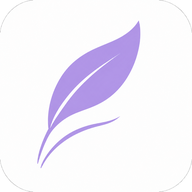
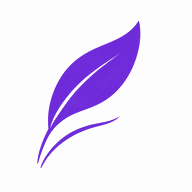
feat: refine PWA branding and application splash assets
- update Apple touch icon and browser favicon assets for consistent Notare
  branding across supported platforms
- update standard PWA icons for 192px and 512px installation requirements
- update maskable PWA icons to improve adaptive icon rendering on supported
  devices and operating systems
- refresh light and dark application logo assets used throughout the PWA
- add the dedicated logo-mark asset for compact branding contexts
- refine AppSplash styling and presentation to align the startup experience
  with the updated application branding
- update AppSplash implementation to use the revised visual assets and
  maintain consistent branding during application initialization
- keep PWA branding assets synchronized across browser, installed-app, and
  splash-screen experiences#

diff --git a/src/pwa/components/AppSplash.tsx b/src/pwa/components/AppSplash.tsx
@@ -6,8 +6,11 @@ interface AppSplashProps {
 }
 
 /**
- * Step 10b. Deliberately no logo here — see useBootPhase.ts's own note
- * on why. Just the tagline, dots, and footer.
+ * Step 12. logo-mark.png (generated alongside the other brand assets —
+ * see the recolor script) is a true transparent cutout of just the
+ * leaf, no card/background baked in, unlike Logo.tsx's own asset —
+ * that's the whole reason this doesn't reuse <Logo>. One flat colour
+ * reads fine on either theme's --color-bg, so no light/dark swap here.
  */
 export function AppSplash({ stage }: AppSplashProps) {
   return (
@@ -18,6 +21,7 @@ export function AppSplash({ stage }: AppSplashProps) {
       role="status"
       aria-live="polite"
     >
+      <img className="app-splash__logo" src="/logo-mark.png" alt="" width={512} height={512} />
       <p className="app-splash__tagline">Write Anywhere. Sync Everywhere.</p>
       <span className="app-splash__dots" aria-hidden="true">
         <span className="app-splash__dot" />

diff --git a/src/pwa/components/AppSplash.css b/src/pwa/components/AppSplash.css
@@ -16,6 +16,11 @@
     opacity: 0;
   }
 
+  .app-splash__logo {
+    inline-size: 4rem;
+    block-size: 4rem;
+  }
+
   .app-splash__tagline {
     font-size: var(--font-size-md);
     color: var(--color-text-secondary);
